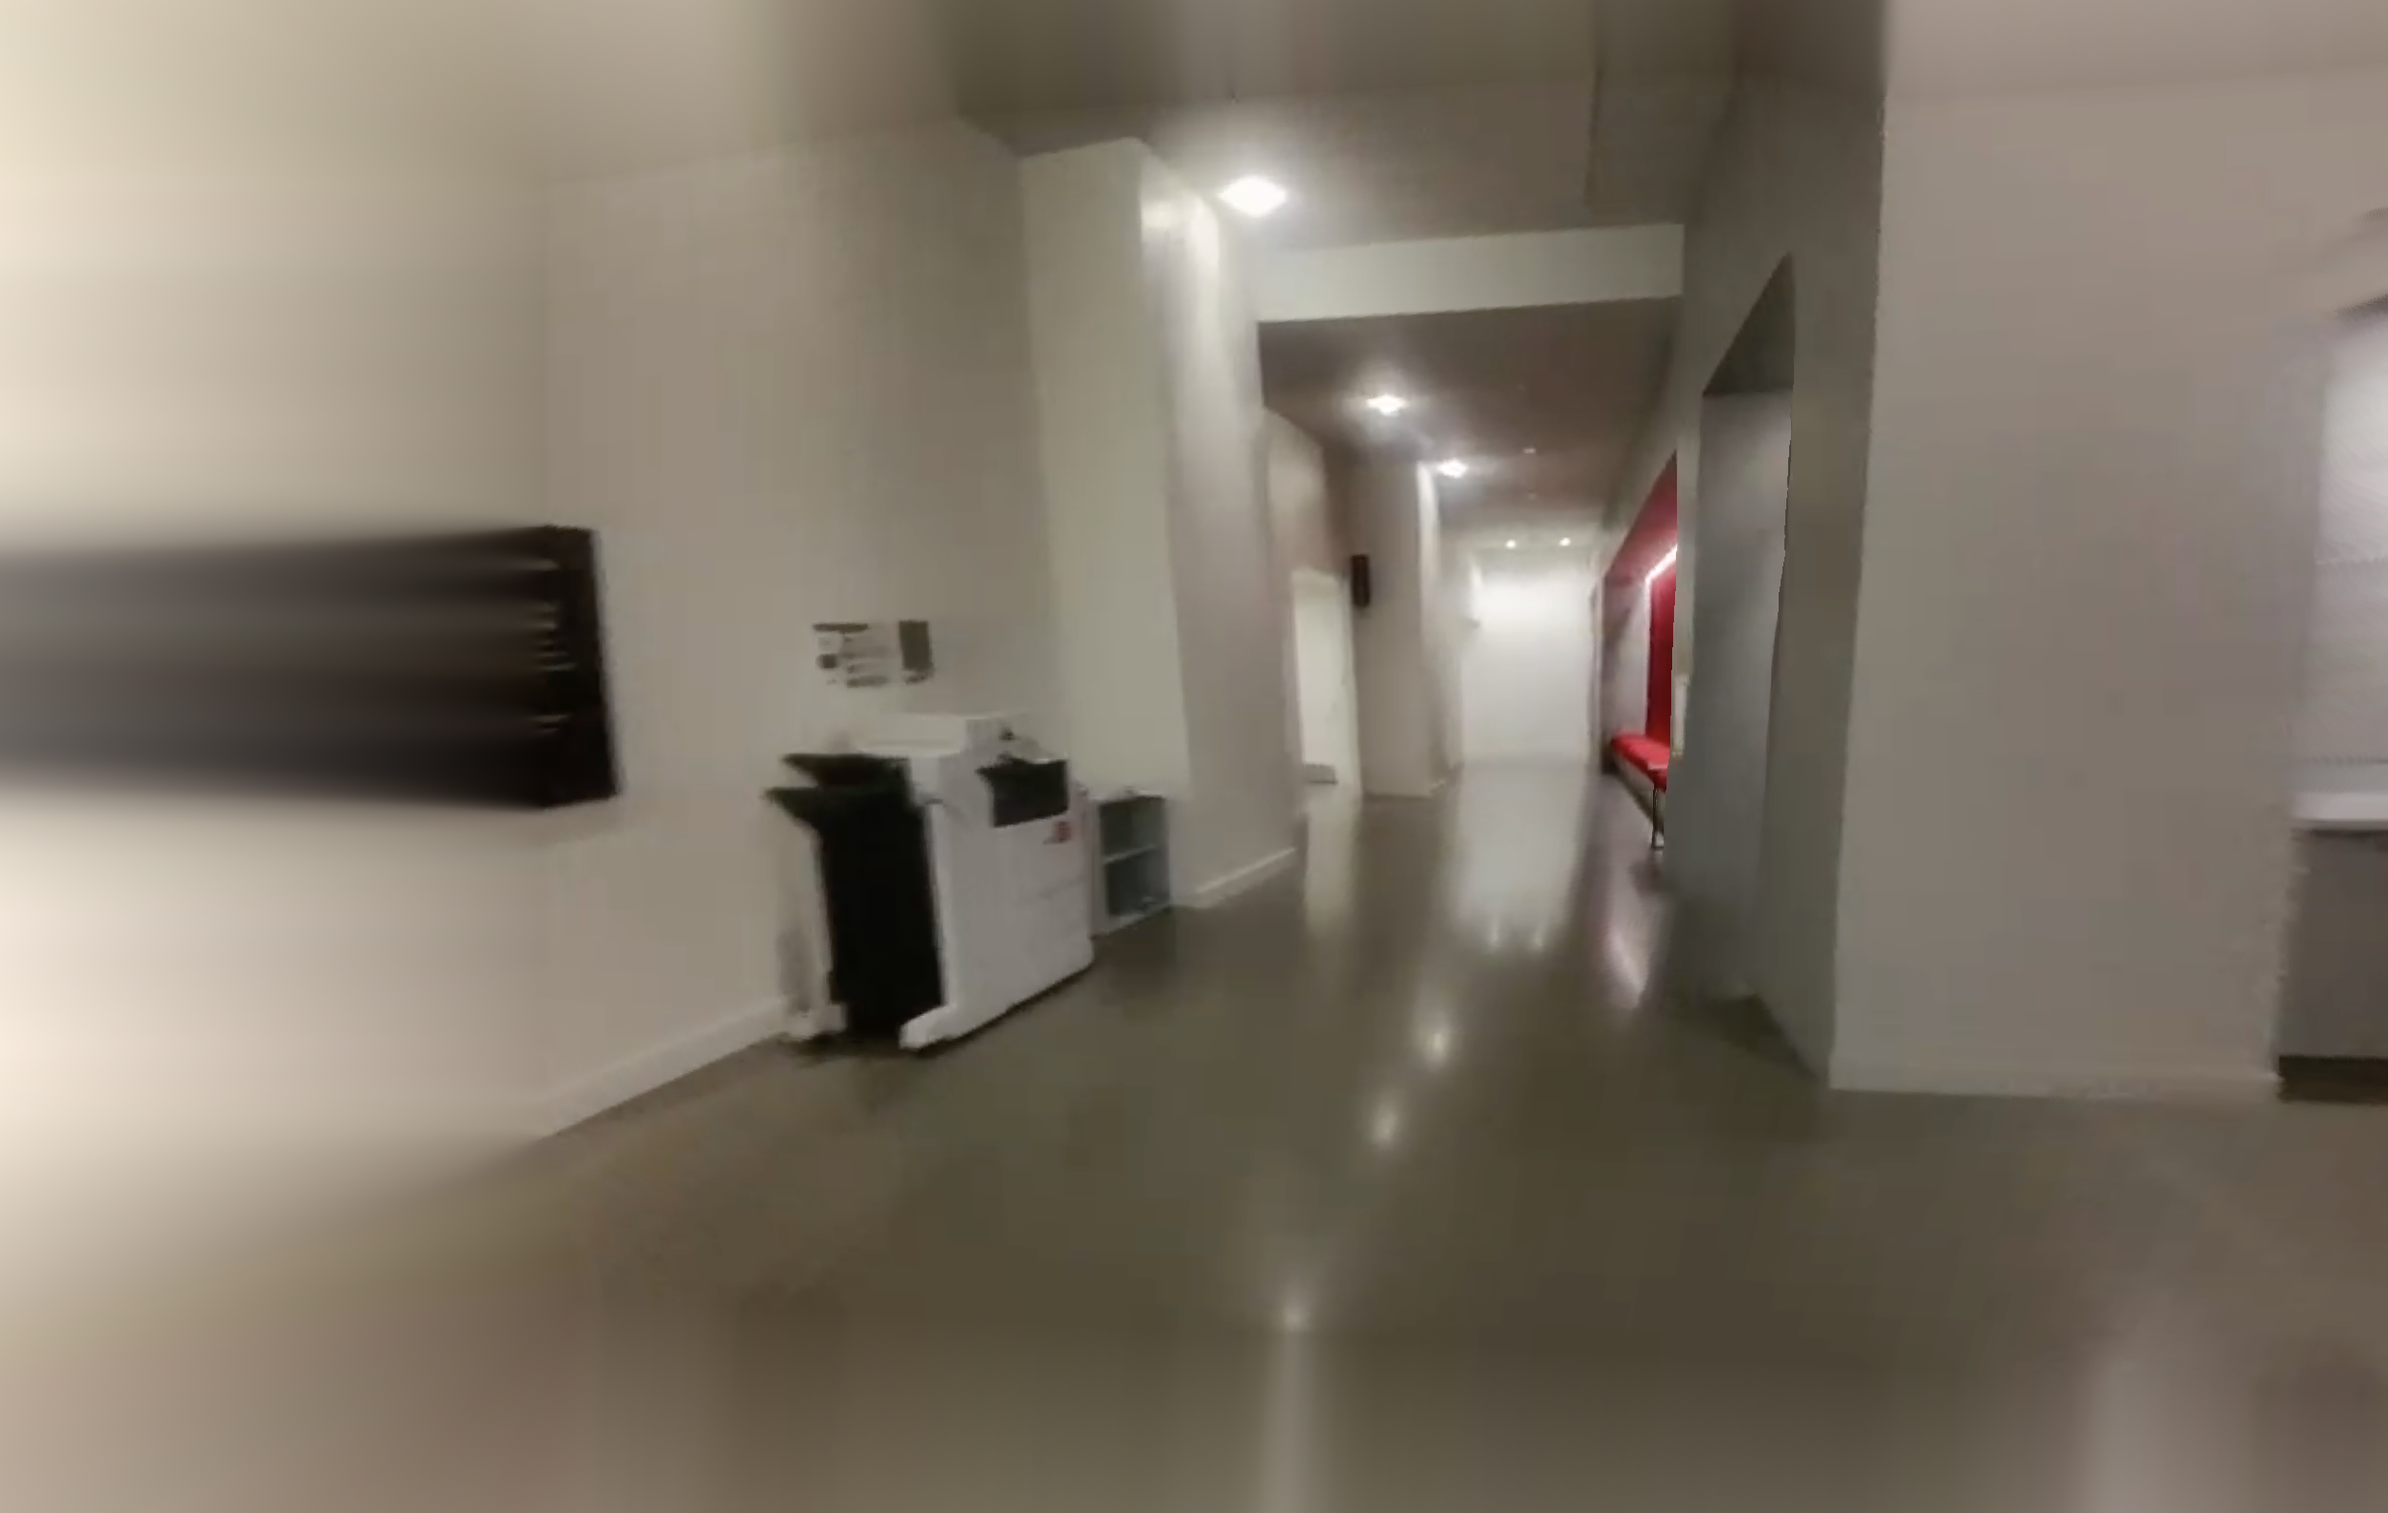
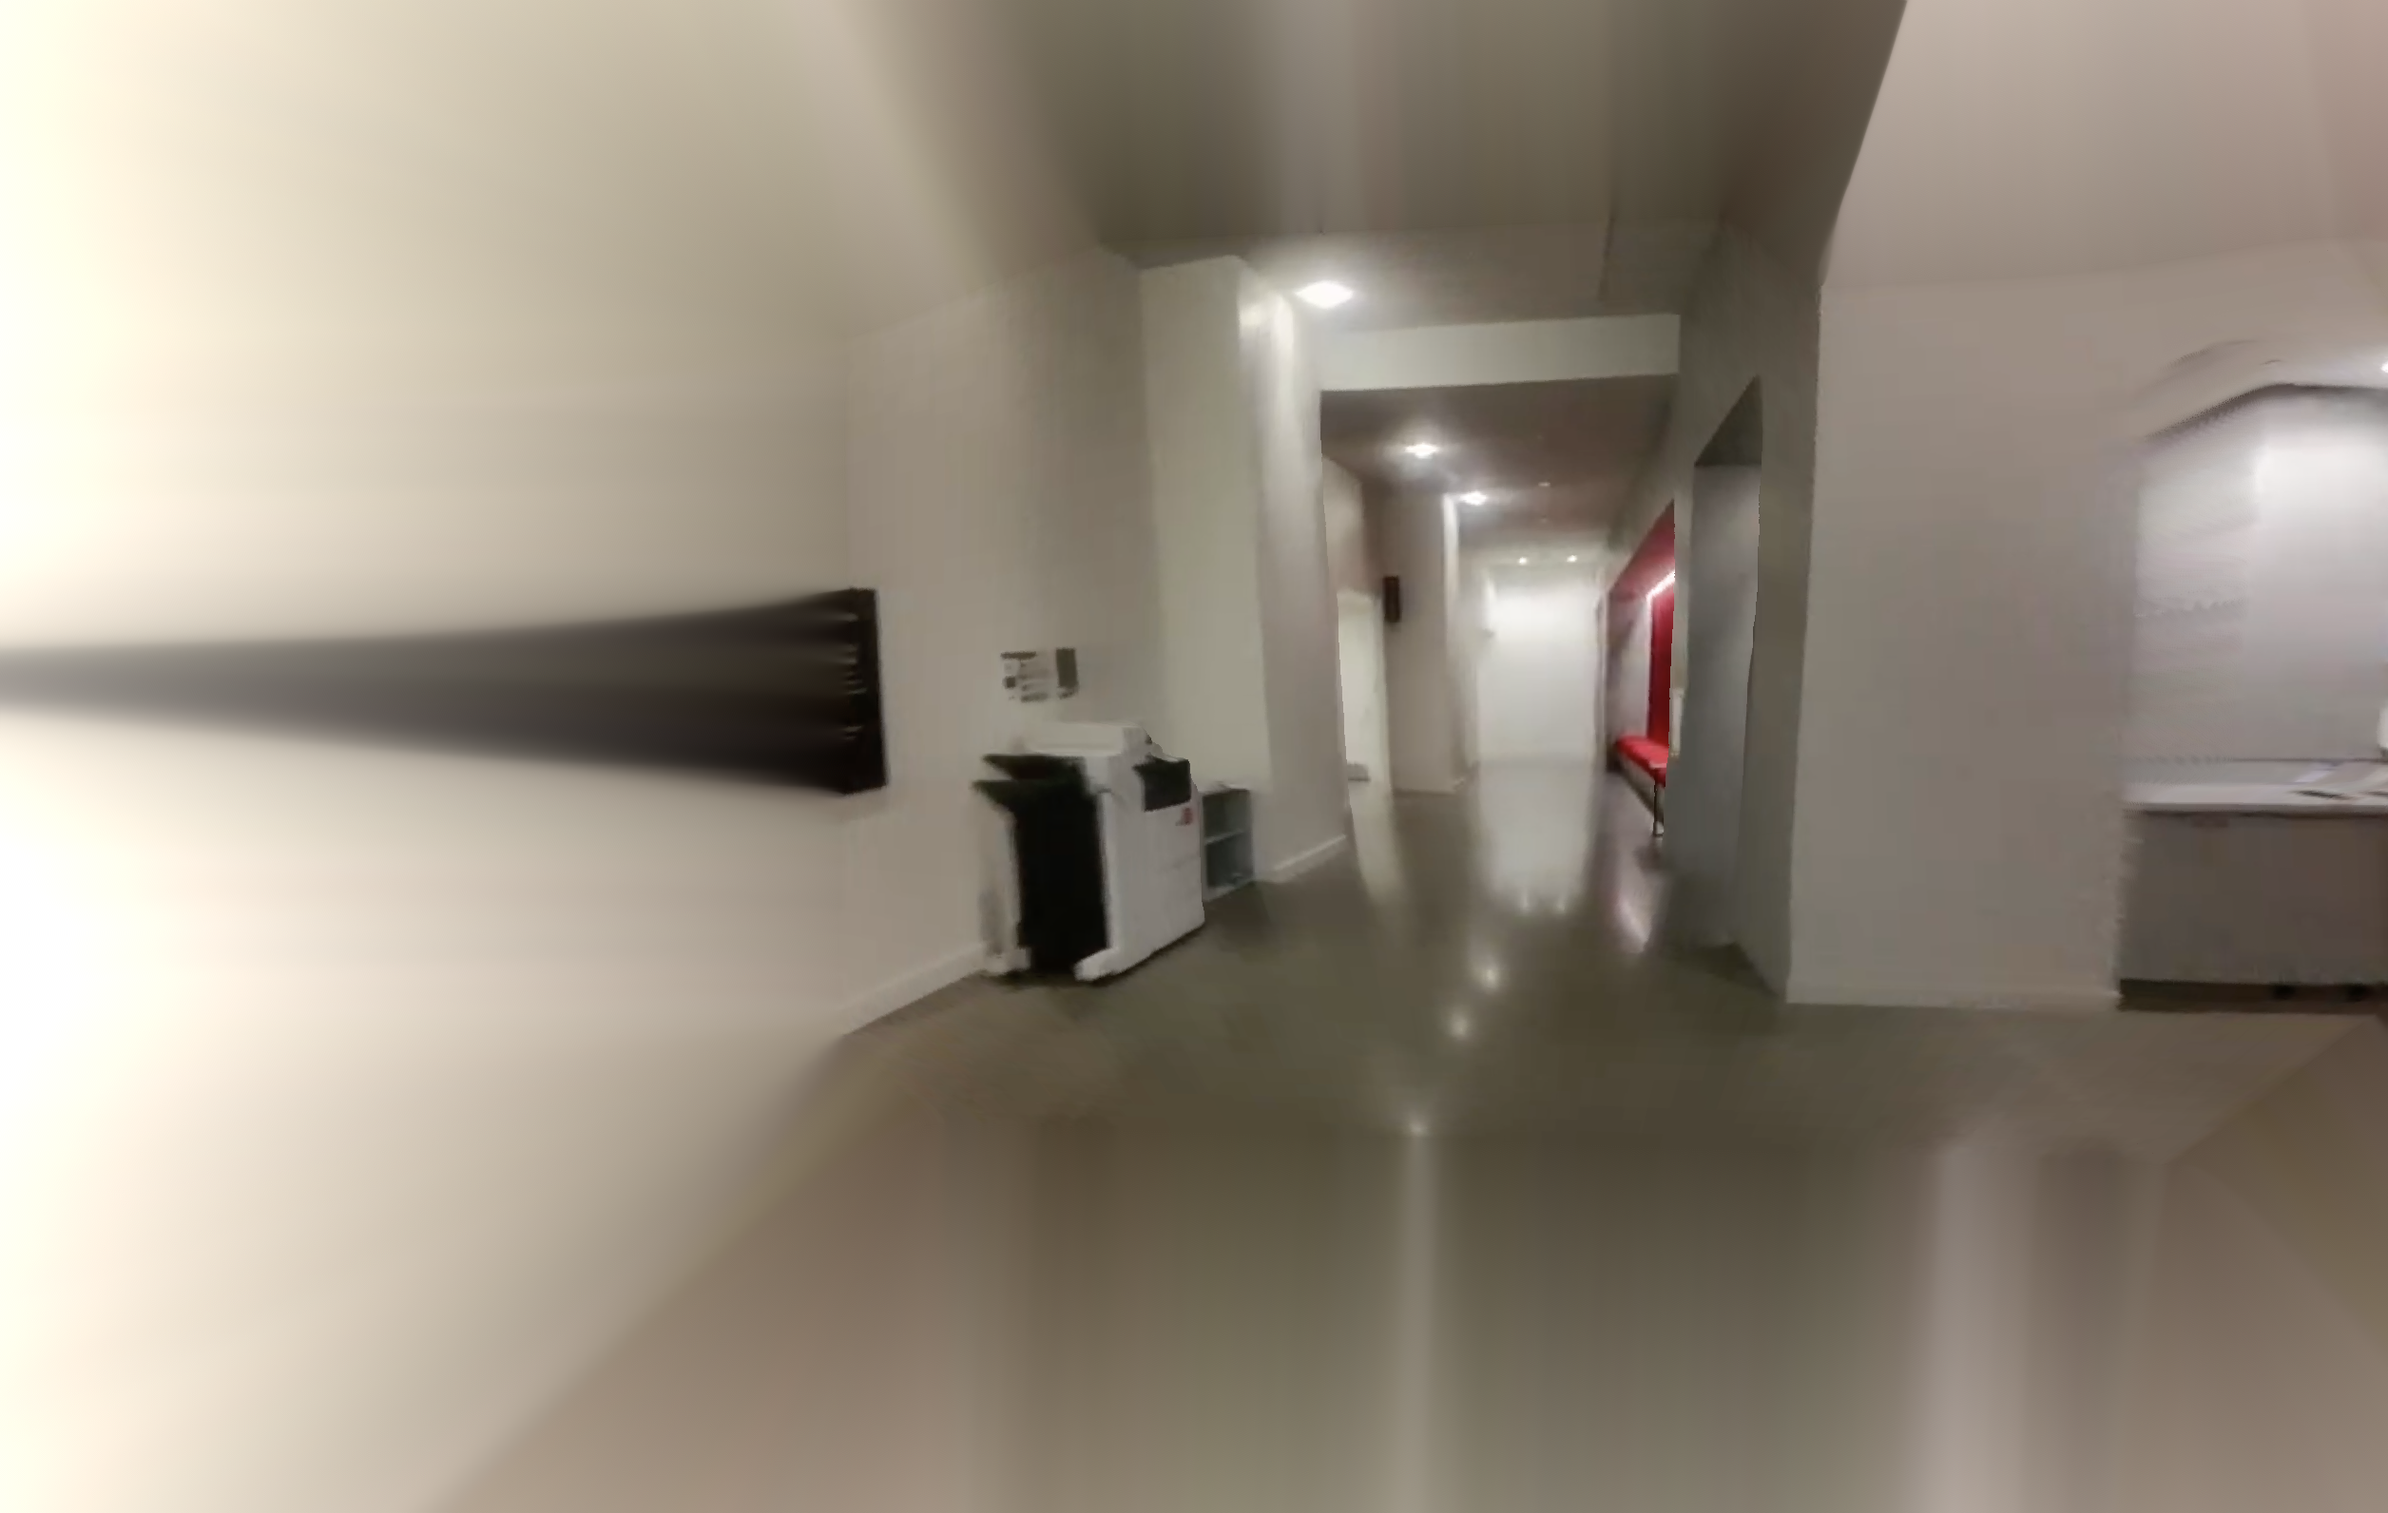
fixed view_trasnform_modal

diff --git a/ml-depth-pro/view_transform_modal.py b/ml-depth-pro/view_transform_modal.py
@@ -104,7 +104,7 @@ def reproject_novel_view(
     z0 = z[valid0]
 
     X = (pix0 @ Kinv.T) * z0[:, None]
-    Xp = (X @ R.T) + t.reshape(1, 3)
+    Xp = (X - t.reshape(1, 3)) @ R.T
     zp = Xp[:, 2]
     valid1 = zp > 1e-6
     Xp = Xp[valid1]
@@ -158,9 +158,12 @@ def run_view_transform(
     yaw_deg: float = 10.0,
     pitch_deg: float = 0.0,
     roll_deg: float = 0.0,
-    back_ft: float = 2.0,
-    right_ft: float = 0.0,
-    down_ft: float = 0.0,
+    back: float = 0.0,
+    forward: float = 0.0,
+    right: float = 0.0,
+    left: float = 0.0,
+    down: float = 0.0,
+    up: float = 0.0,
     inpaint_radius: int = 3,
     save_depth_vis: bool = False,
     save_holes: bool = False,
@@ -224,8 +227,7 @@ def run_view_transform(
     K = build_K(W, H, focallength_px)
 
     R = rot_y(yaw_deg) @ rot_x(pitch_deg) @ rot_z(roll_deg)
-    ft2m = 0.3048
-    t = np.array([right_ft * ft2m, down_ft * ft2m, back_ft * ft2m], dtype=np.float32)
+    t = np.array([right - left, down - up, forward - back], dtype=np.float32)
 
     out_bgr, holes_mask = reproject_novel_view(
         I_bgr=I_bgr, D=depth_m, K=K, R=R, t=t, inpaint_radius=inpaint_radius
@@ -260,9 +262,12 @@ def main(
     yaw_deg: float = 10.0,
     pitch_deg: float = 0.0,
     roll_deg: float = 0.0,
-    back_ft: float = 2.0,
-    right_ft: float = 0.0,
-    down_ft: float = 0.0,
+    back: float = 0.0,
+    forward: float = 0.0,
+    right: float = 0.0,
+    left: float = 0.0,
+    down: float = 0.0,
+    up: float = 0.0,
     inpaint_radius: int = 3,
     save_depth_vis: bool = False,
     save_holes: bool = False,
@@ -275,7 +280,7 @@ def main(
 
     Usage:
         modal run view_transform_modal.py --input input.png --output out.png
-        modal run view_transform_modal.py --input input.png --output out.png --yaw-deg 15 --back-ft 3
+        modal run view_transform_modal.py --input input.png --output out.png --yaw-deg 15 --forward 0.5
     """
     inp = Path(input)
     outp = Path(output)
@@ -303,9 +308,12 @@ def main(
         yaw_deg=yaw_deg,
         pitch_deg=pitch_deg,
         roll_deg=roll_deg,
-        back_ft=back_ft,
-        right_ft=right_ft,
-        down_ft=down_ft,
+        back=back,
+        forward=forward,
+        right=right,
+        left=left,
+        down=down,
+        up=up,
         inpaint_radius=inpaint_radius,
         save_depth_vis=save_depth_vis,
         save_holes=save_holes,
